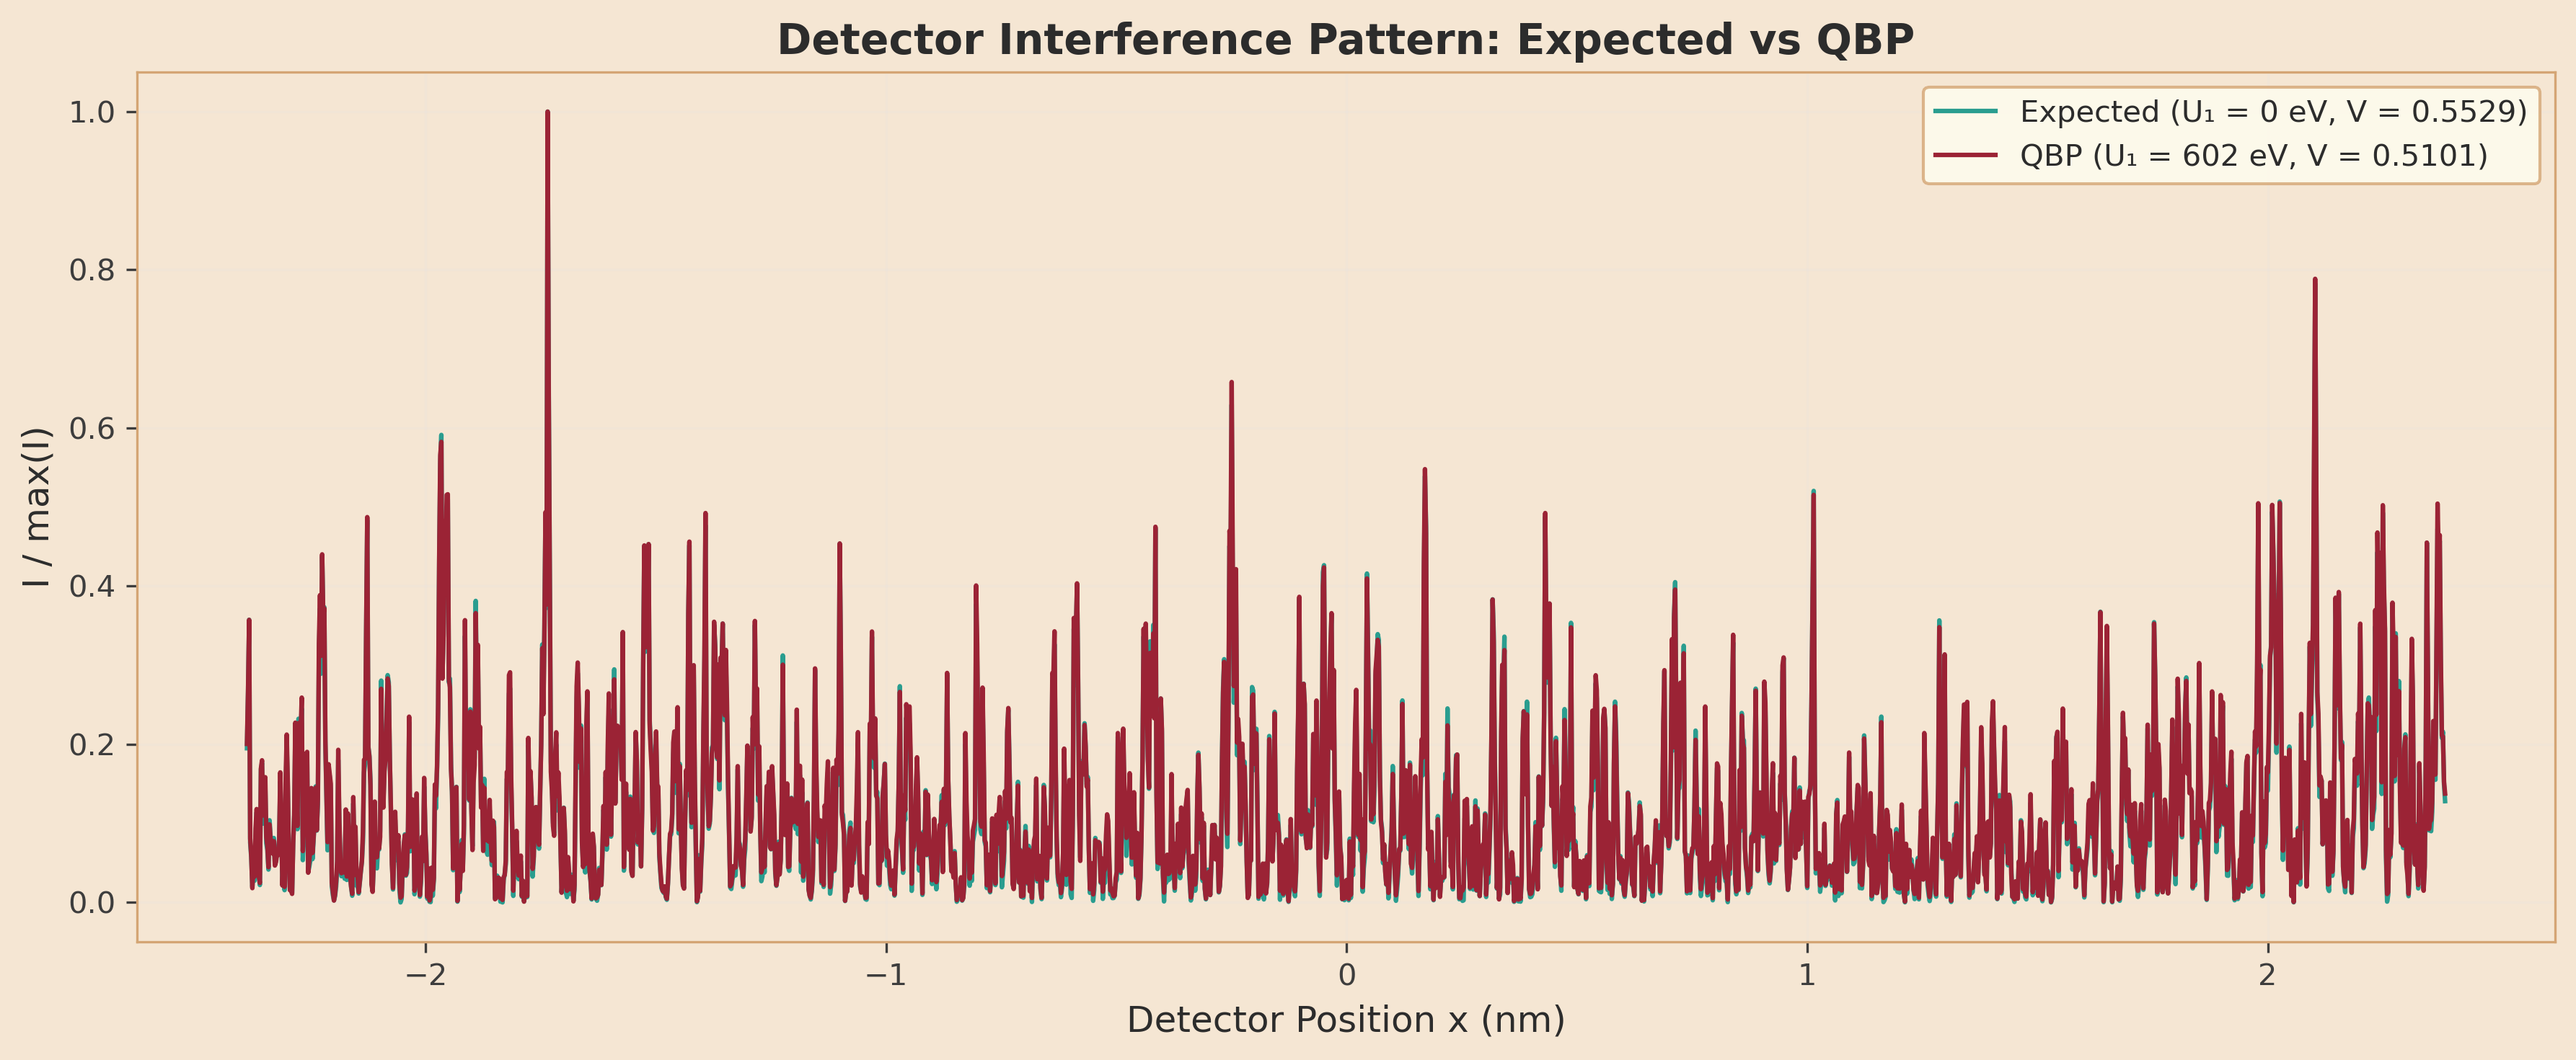
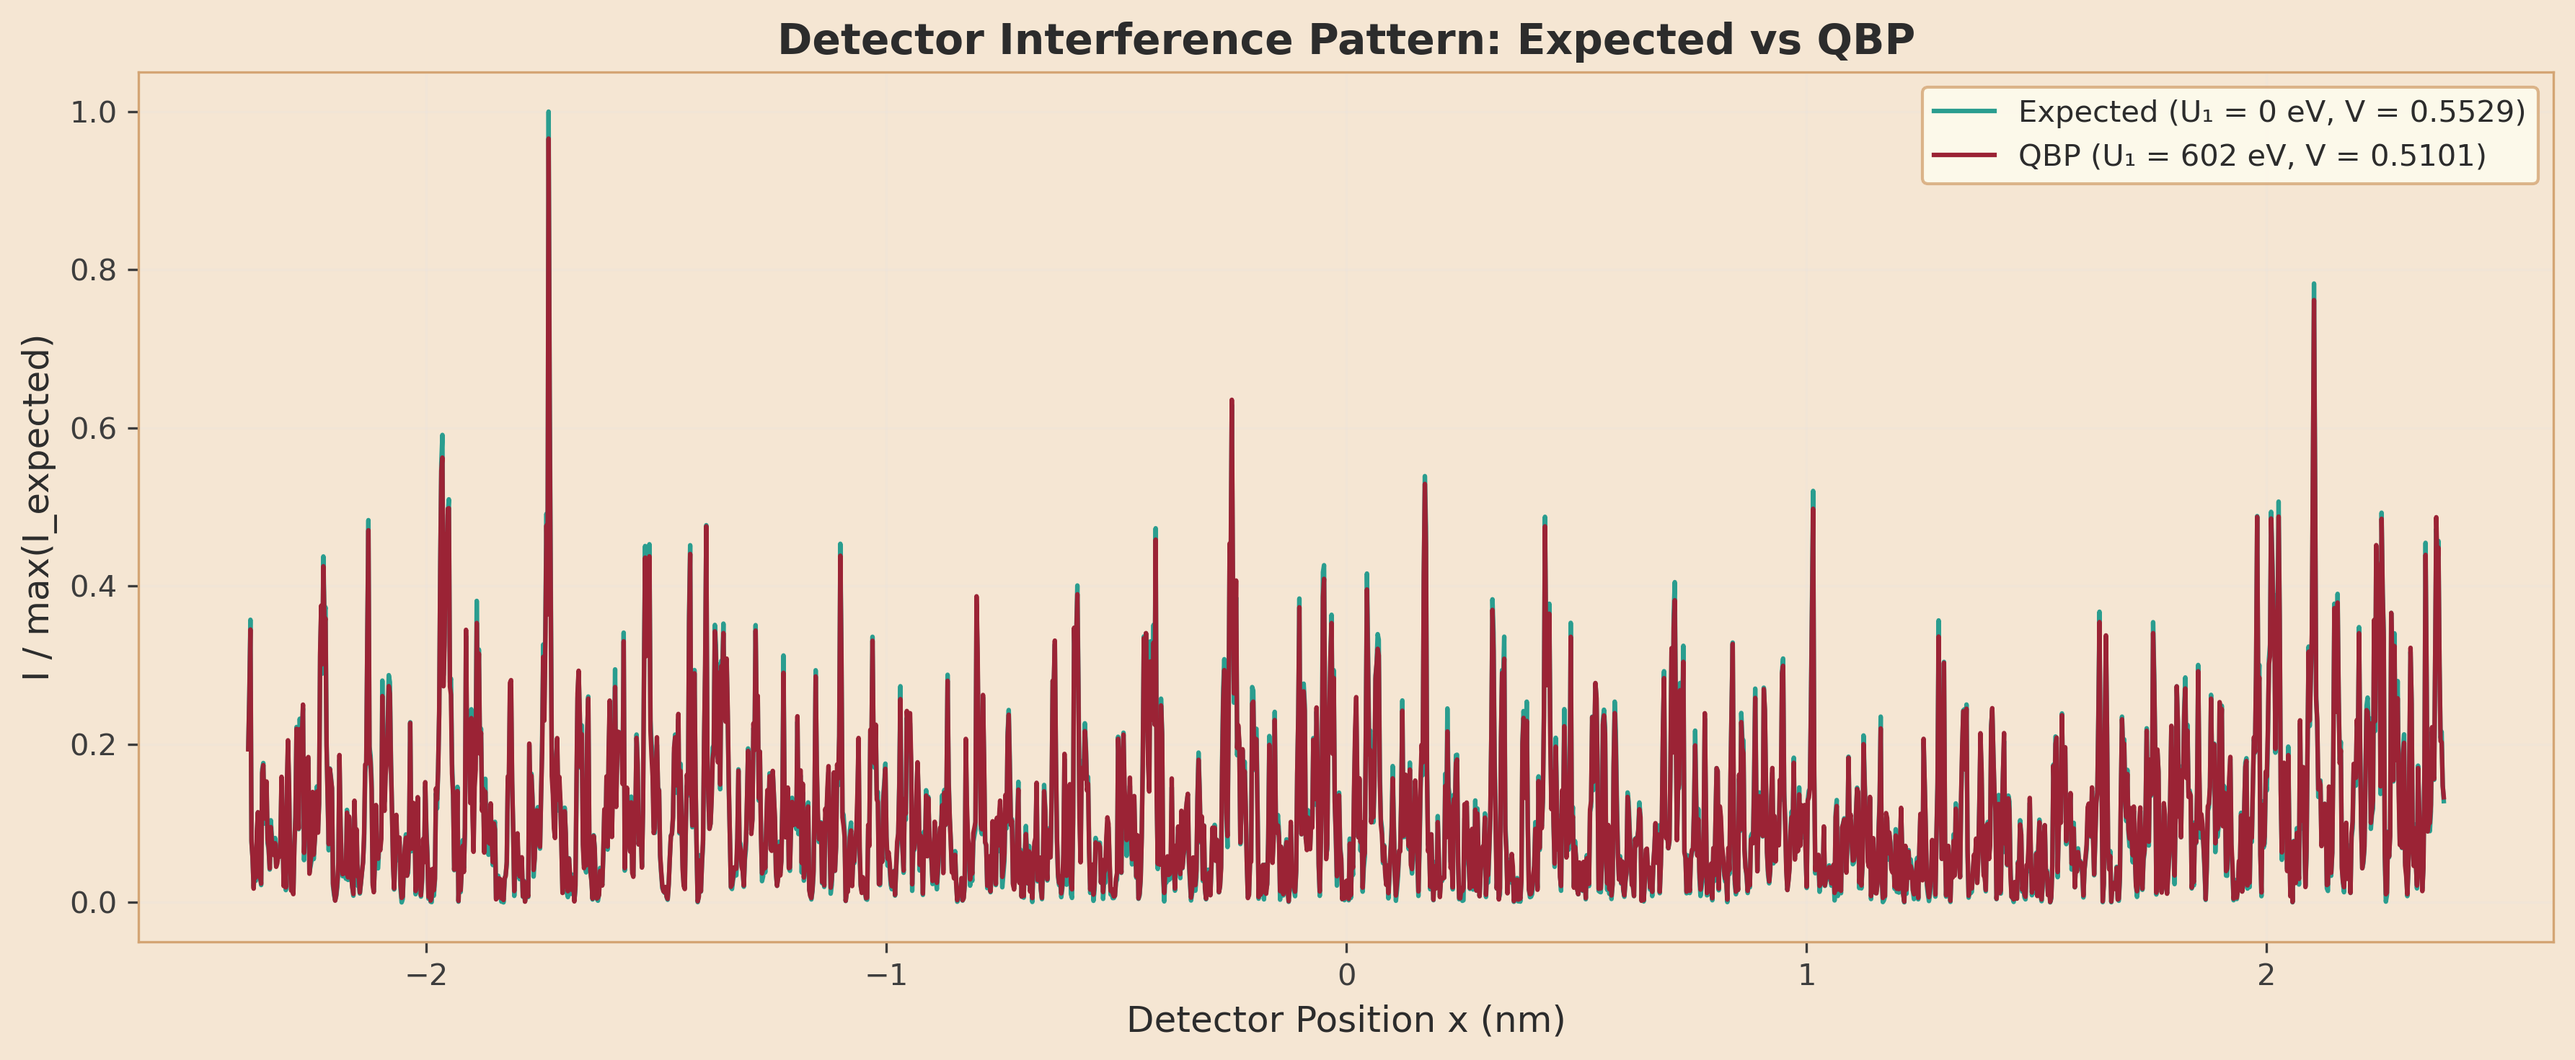
fix: Address BLOCKING review findings — common normalization + grid assertion
- All hero plots now normalize both Expected and QBP to Expected's max
  (was: independent normalization that erased amplitude differences)
- plot_residual: add grid identity assertion before direct subtraction
- Y-axis labels clarified to 'I / max(I_expected)' and
  'Residual (I_QBP − I_Expected) / max(I_Expected)'
- generate_results_md residual stats use common normalization

Addresses Red Team S-1, G-1 and Gemini BLOCKING findings.

diff --git a/analysis/03_double_slit/analyze.py b/analysis/03_double_slit/analyze.py
@@ -637,12 +637,13 @@ def plot_hero_fringe_overlay(
     ].sort_values("x_position_m")
 
     x_nm_exp = c_expected["x_position_m"].values * 1e9
-    i_exp = c_expected["intensity_total_normalized"].values
-    i_exp = i_exp / i_exp.max()
+    i_exp_raw = c_expected["intensity_total_normalized"].values
+    max_ref = i_exp_raw.max()  # Common reference: normalize both to Expected max
+    i_exp = i_exp_raw / max_ref
 
     x_nm_qbp = c_qbp["x_position_m"].values * 1e9
-    i_qbp = c_qbp["intensity_total_normalized"].values
-    i_qbp = i_qbp / i_qbp.max()
+    i_qbp_raw = c_qbp["intensity_total_normalized"].values
+    i_qbp = i_qbp_raw / max_ref  # Same reference — preserves amplitude difference
 
     # Get visibility values from summary
     sc_sum = summary_df[summary_df["scenario"] == "C"]
@@ -671,7 +672,7 @@ def plot_hero_fringe_overlay(
     )
 
     ax.set_xlabel("Detector Position x (nm)", fontsize=12)
-    ax.set_ylabel("I / max(I)", fontsize=12)
+    ax.set_ylabel("I / max(I_expected)", fontsize=12)
     ax.set_title(
         "Detector Interference Pattern: Expected vs QBP",
         fontsize=14,
@@ -719,12 +720,13 @@ def plot_hero_fringe_zoomed(
     ].sort_values("x_position_m")
 
     x_nm_exp = c_expected["x_position_m"].values * 1e9
-    i_exp = c_expected["intensity_total_normalized"].values
-    i_exp = i_exp / i_exp.max()
+    i_exp_raw = c_expected["intensity_total_normalized"].values
+    max_ref = i_exp_raw.max()  # Common reference: normalize both to Expected max
+    i_exp = i_exp_raw / max_ref
 
     x_nm_qbp = c_qbp["x_position_m"].values * 1e9
-    i_qbp = c_qbp["intensity_total_normalized"].values
-    i_qbp = i_qbp / i_qbp.max()
+    i_qbp_raw = c_qbp["intensity_total_normalized"].values
+    i_qbp = i_qbp_raw / max_ref  # Same reference — preserves amplitude difference
 
     # Get visibility values
     sc_sum = summary_df[summary_df["scenario"] == "C"]
@@ -771,7 +773,7 @@ def plot_hero_fringe_zoomed(
 
     ax.set_xlim(-0.05, 0.05)
     ax.set_xlabel("Detector Position x (nm)", fontsize=12)
-    ax.set_ylabel("I / max(I)", fontsize=12)
+    ax.set_ylabel("I / max(I_expected)", fontsize=12)
     ax.set_title(
         "Zoomed Fringes: ±0.05 nm (~12 fringes at 8.5 pm spacing)",
         fontsize=14,
@@ -815,18 +817,28 @@ def plot_residual(fringe_df: pd.DataFrame, output_path: str):
         (sc_c["U1_strength_eV"] == u1_max) & (sc_c["eta0"] == eta0_val)
     ].sort_values("x_position_m")
 
-    x_nm = c_expected["x_position_m"].values * 1e9
-    i_exp = c_expected["intensity_total_normalized"].values
-    i_exp = i_exp / i_exp.max()
+    x_nm_exp = c_expected["x_position_m"].values * 1e9
+    x_nm_qbp = c_qbp["x_position_m"].values * 1e9
 
-    i_qbp = c_qbp["intensity_total_normalized"].values
-    i_qbp = i_qbp / i_qbp.max()
+    # Grid identity assertion (Phase 2 guarantees identical grids)
+    assert len(x_nm_exp) == len(
+        x_nm_qbp
+    ), f"Grid length mismatch: Expected {len(x_nm_exp)}, QBP {len(x_nm_qbp)}"
+    assert np.allclose(
+        x_nm_exp, x_nm_qbp, atol=1e-12
+    ), "Grid values mismatch: Expected and QBP x-grids differ"
 
-    # Direct subtraction (same grid guaranteed)
+    i_exp_raw = c_expected["intensity_total_normalized"].values
+    max_ref = i_exp_raw.max()  # Common reference: normalize both to Expected max
+    i_exp = i_exp_raw / max_ref
+
+    i_qbp_raw = c_qbp["intensity_total_normalized"].values
+    i_qbp = i_qbp_raw / max_ref  # Same reference — preserves amplitude difference
+
     residual = i_qbp - i_exp
 
     ax.plot(
-        x_nm,
+        x_nm_exp,
         residual,
         color=COLORS.CRIMSON.hex,
         linewidth=1.0,
@@ -853,7 +865,7 @@ def plot_residual(fringe_df: pd.DataFrame, output_path: str):
     )
 
     ax.set_xlabel("Detector Position x (nm)", fontsize=12)
-    ax.set_ylabel("Residual  (I_QBP − I_Expected)", fontsize=12)
+    ax.set_ylabel("Residual  (I_QBP − I_Expected) / max(I_Expected)", fontsize=12)
     ax.set_title(
         "Residual: QBP − Expected",
         fontsize=14,
@@ -1110,8 +1122,9 @@ def generate_results_md(
 
     i_exp_raw = c_exp["intensity_total_normalized"].values
     i_qbp_raw = c_qbp["intensity_total_normalized"].values
-    i_exp_norm = i_exp_raw / i_exp_raw.max()
-    i_qbp_norm = i_qbp_raw / i_qbp_raw.max()
+    max_ref = i_exp_raw.max()  # Common reference: normalize both to Expected max
+    i_exp_norm = i_exp_raw / max_ref
+    i_qbp_norm = i_qbp_raw / max_ref
     residual = i_qbp_norm - i_exp_norm
     res_max = residual.max()
     res_min = residual.min()

diff --git a/analysis/03_double_slit/RESULTS.md b/analysis/03_double_slit/RESULTS.md
@@ -1,6 +1,6 @@
 # Experiment 03: Double-Slit — Phase 3 Visualization Results
 
-**Analysis Date:** 2026-02-15 23:37:43
+**Analysis Date:** 2026-02-15 23:48:09
 **Data Source:** `results/03_double_slit/`
 **Sprint:** 3 (SI Redo)
 
@@ -102,9 +102,9 @@ spatial structure demonstrates the quaternionic coupling signal.
 
 | Metric | Value |
 |--------|-------|
-| Max residual | +0.035768 |
-| Min residual | -0.021408 |
-| RMS residual | 0.007928 |
+| Max residual | +0.025205 |
+| Min residual | -0.034104 |
+| RMS residual | 0.007311 |
 | Pattern | Oscillatory (modulates fringe peaks) |
 
 The residual is not flat noise — it shows systematic oscillatory structure aligned with
